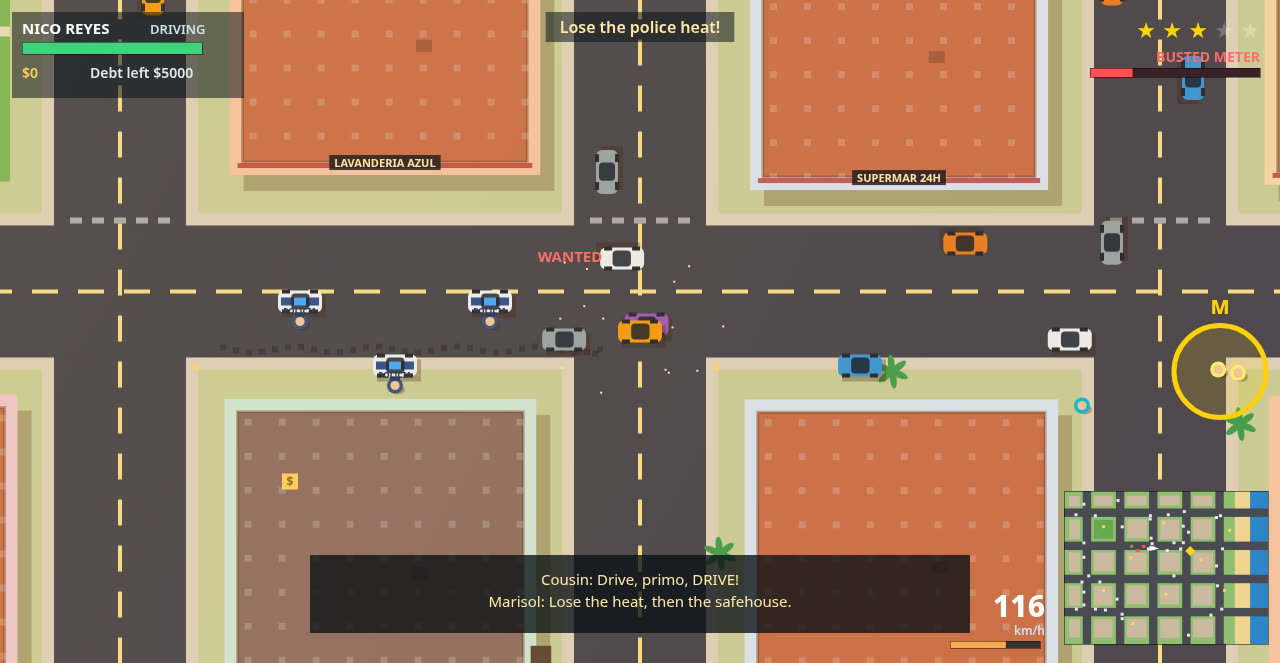
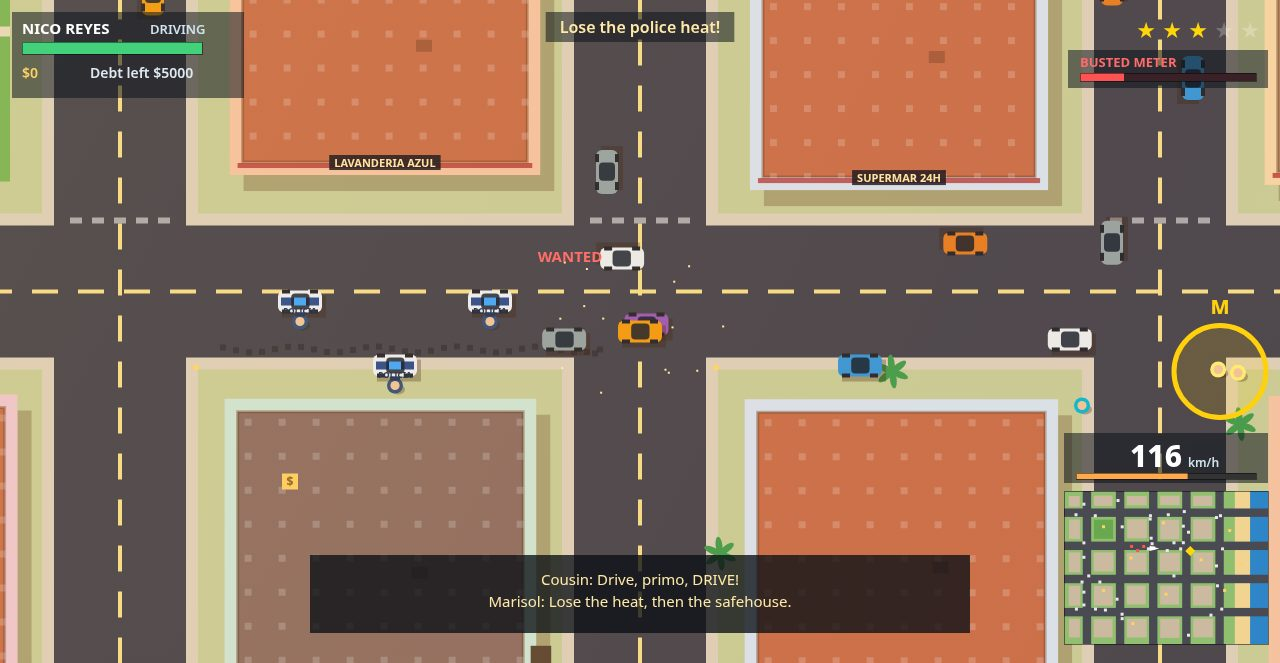
HUD polish: bust meter gets its own panel under the stars; speedometer moved to a panel above the minimap, clear of dialogue

diff --git a/game/src/hud.js b/game/src/hud.js
@@ -80,9 +80,14 @@ export function drawHUD(ctx, G, vw, vh) {
     ctx.fillText('★', vw - 20 - (4 - i) * 26, 38);
   }
   if (G.bust > 0.05) {
-    ctx.font = `700 14px ${FONT}`; ctx.fillStyle = '#ff6b6b'; ctx.textAlign = 'right';
-    ctx.fillText('BUSTED METER', vw - 20, 62);
-    bar(ctx, vw - 190, 68, 170, 9, G.bust, '#ff5252', '#3a2027');
+    // Bust meter: its own dark panel directly under the stars, with a clear
+    // gap below the star row, so the label is fully legible while a bust is
+    // in progress instead of crowding the stars.
+    ctx.fillStyle = 'rgba(12,20,28,0.55)';
+    ctx.fillRect(vw - 212, 50, 200, 38);
+    ctx.font = `700 13px ${FONT}`; ctx.fillStyle = '#ff6b6b'; ctx.textAlign = 'left';
+    ctx.fillText('BUSTED METER', vw - 200, 67);
+    bar(ctx, vw - 200, 73, 176, 8, G.bust, '#ff5252', '#3a2027');
   }
 
   // Objective + timer, top centre.
@@ -126,14 +131,20 @@ export function drawHUD(ctx, G, vw, vh) {
     ctx.fillStyle = '#fff';
     ctx.fillText(G.hint, vw / 2, vh - 132);
   }
-  // Speedometer while driving.
+  // Speedometer while driving: a panel in the right column directly above
+  // the minimap, well clear of the dialogue box at bottom centre, so the
+  // speed number, the km/h unit and the car-damage bar are always fully
+  // visible while dialogue is on screen.
   if (P.car) {
     const kmh = Math.round(Math.abs(P.car.speed) * 0.55);
+    const sx = vw - 216, sy = vh - 230;
+    ctx.fillStyle = 'rgba(12,20,28,0.55)';
+    ctx.fillRect(sx, sy, 204, 50);
     ctx.font = `800 30px ${FONT}`; ctx.fillStyle = '#fff'; ctx.textAlign = 'right';
-    ctx.fillText(`${kmh}`, vw - 235, vh - 46);
-    ctx.font = `600 12px ${FONT}`; ctx.fillStyle = '#cfe3ee';
-    ctx.fillText('km/h', vw - 235, vh - 28);
-    bar(ctx, vw - 330, vh - 22, 90, 7, P.car.health / 100, '#ffa94d', '#333');
+    ctx.fillText(`${kmh}`, sx + 118, sy + 34);
+    ctx.font = `600 12px ${FONT}`; ctx.fillStyle = '#cfe3ee'; ctx.textAlign = 'left';
+    ctx.fillText('km/h', sx + 124, sy + 34);
+    bar(ctx, sx + 12, sy + 40, 180, 6, P.car.health / 100, '#ffa94d', '#333');
   }
   // Minimap bottom-right.
   drawMinimap(ctx, G, vw - 216, vh - 172, 204);
